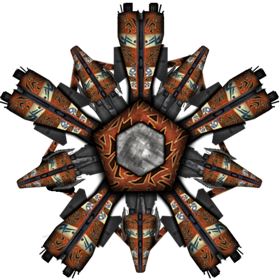
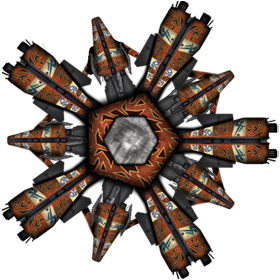
jaStat, custom laser
jaStat, custom laser

diff --git a/source/server/model/ships/narn/jastat.php b/source/server/model/ships/narn/jastat.php
@@ -23,7 +23,7 @@ class JaStat extends StarBaseFiveSections{
 		$this->imagePath = "img/ships/jastat.png";
 		$this->canvasSize = 280; //Enormous Starbase
 
-		$this->locations = array(41, 42, 32, 31, 1);
+		$this->locations = array(1, 41, 42, 32, 31);
 		$this->hitChart = array(			
 			0=> array(
 				10 => "Structure",
@@ -53,8 +53,8 @@ class JaStat extends StarBaseFiveSections{
 
 		for ($i = 0; $i < sizeof($this->locations); $i++){
 
-			$min = 0 + ($i*60);
-			$max = 180 + ($i*60);
+			$min = 270 + ($i*72);
+			$max = 90 + ($i*72);
 
 			$systems = array(
 				new MagGun(5, 9, 8, $min, $max),

diff --git a/source/server/model/weapons/customs.php b/source/server/model/weapons/customs.php
@@ -160,7 +160,7 @@ class CustomPulsarLaser extends Pulse{
 
 
 
-class CustomStrikeLaser extends Weapon{
+class CustomStrikeLaser extends TacLaser{
     /*Srike Laser, as used on Ch'Lonas ships*/
         public $name = "customStrikeLaser";
         public $displayName = "Strike Laser";
